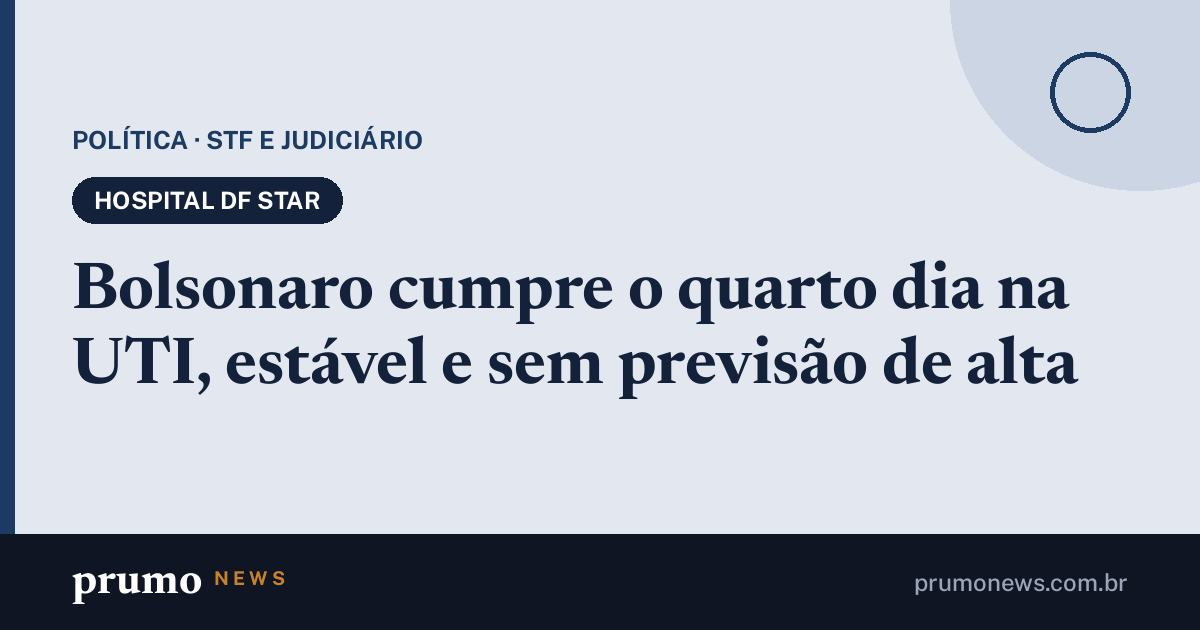
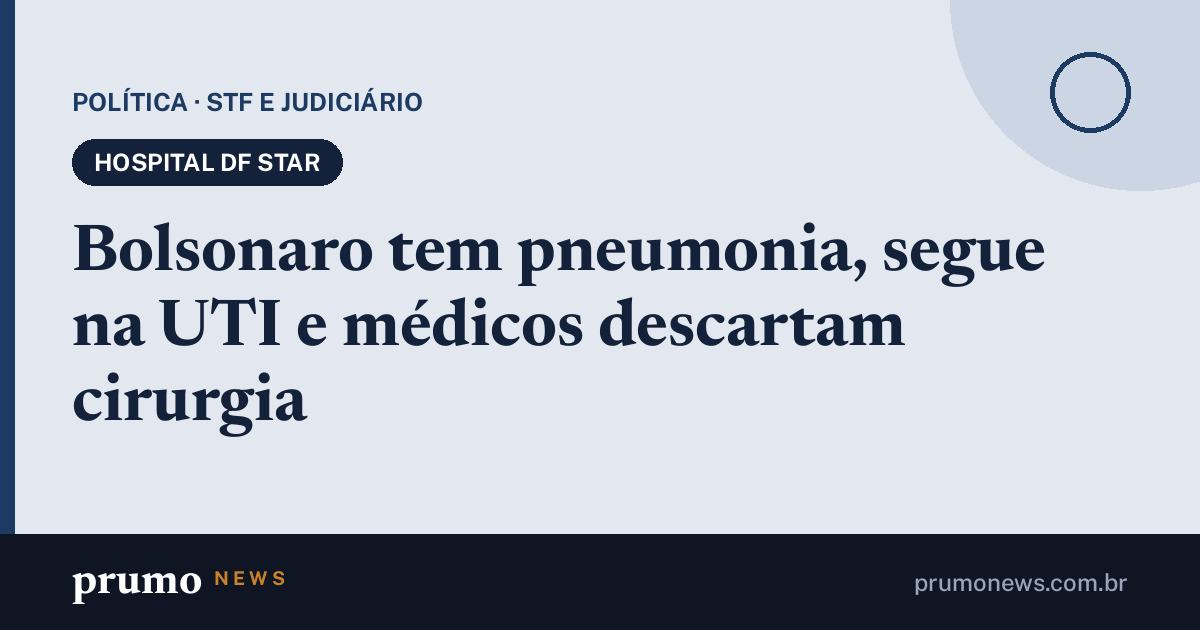
Páginas de compartilhamento 23/11 18h51

Changed region(s): [[0.0617, 0.1508, 0.8942, 0.6937]]

diff --git a/m/bolsonaro-hospital-dores-abdominais.html b/m/bolsonaro-hospital-dores-abdominais.html
@@ -3,16 +3,16 @@
 <head>
 <meta charset="utf-8">
 <meta name="viewport" content="width=device-width, initial-scale=1">
-<title>Bolsonaro cumpre o quarto dia na UTI, estável e sem previsão de alta · Prumo News</title>
-<meta name="description" content="Internado desde sexta (20) com abdômen agudo obstrutivo, o ex-presidente faz exames diários e a equipe médica o mantém em observação.">
-<link rel="canonical" href="https://prumonews.com.br/m/bolsonaro-cumpre-o-quarto-dia-na-uti-estavel-e-sem-previsao-de-alta.html">
+<title>Bolsonaro tem pneumonia, segue na UTI e médicos descartam cirurgia · Prumo News</title>
+<meta name="description" content="Internado desde sexta (20), o ex-presidente tem pneumonia e obstrução intestinal; a equipe relata melhora e descarta cirurgia por ora.">
+<link rel="canonical" href="https://prumonews.com.br/m/bolsonaro-tem-pneumonia-segue-na-uti-e-medicos-descartam-cirurgia.html">
 <meta property="og:type" content="article">
 <meta property="og:site_name" content="Prumo News">
 <meta property="og:locale" content="pt_BR">
-<meta property="og:title" content="Bolsonaro cumpre o quarto dia na UTI, estável e sem previsão de alta">
-<meta property="og:description" content="Internado desde sexta (20) com abdômen agudo obstrutivo, o ex-presidente faz exames diários e a equipe médica o mantém em observação.">
-<meta property="og:url" content="https://prumonews.com.br/m/bolsonaro-cumpre-o-quarto-dia-na-uti-estavel-e-sem-previsao-de-alta.html">
-<meta property="og:image" content="https://prumonews.com.br/m/og/bolsonaro-hospital-dores-abdominais.jpg?v=792edbce66">
+<meta property="og:title" content="Bolsonaro tem pneumonia, segue na UTI e médicos descartam cirurgia">
+<meta property="og:description" content="Internado desde sexta (20), o ex-presidente tem pneumonia e obstrução intestinal; a equipe relata melhora e descarta cirurgia por ora.">
+<meta property="og:url" content="https://prumonews.com.br/m/bolsonaro-tem-pneumonia-segue-na-uti-e-medicos-descartam-cirurgia.html">
+<meta property="og:image" content="https://prumonews.com.br/m/og/bolsonaro-hospital-dores-abdominais.jpg?v=f730641803">
 <meta property="og:image:width" content="1200">
 <meta property="og:image:height" content="630">
 <meta name="twitter:card" content="summary_large_image">
@@ -20,5 +20,5 @@
 <script>location.replace("/#m=bolsonaro-hospital-dores-abdominais")</script>
 <style>body{margin:0;font:16px/1.5 system-ui,sans-serif;background:#0f1522;color:#e8ecf2;display:grid;place-items:center;min-height:100vh;padding:24px;box-sizing:border-box;text-align:center}a{color:#e6b673}</style>
 </head>
-<body><p><a href="/#m=bolsonaro-hospital-dores-abdominais">Bolsonaro cumpre o quarto dia na UTI, estável e sem previsão de alta</a><br>Abrindo no Prumo News…</p></body>
+<body><p><a href="/#m=bolsonaro-hospital-dores-abdominais">Bolsonaro tem pneumonia, segue na UTI e médicos descartam cirurgia</a><br>Abrindo no Prumo News…</p></body>
 </html>

diff --git a/m/ajuste-fiscal-lula-4.html b/m/ajuste-fiscal-lula-4.html
@@ -3,22 +3,20 @@
 <head>
 <meta charset="utf-8">
 <meta name="viewport" content="width=device-width, initial-scale=1">
-<title>Câmara vota o ajuste fiscal na segunda (23); dólar sobe até R$ 6 · Prumo News</title>
-<meta name="description" content="O governo precisa de 257 votos à noite; o relator mantém o texto do Senado, e o dólar subiu até R$ 6 com o ajuste no foco.">
-<link rel="canonical" href="https://prumonews.com.br/m/camara-vota-o-ajuste-fiscal-na-segunda-23-dolar-sobe-ate-r-6.html">
+<title>PL vota contra o ajuste fiscal; Câmara decide na segunda (23) · Prumo News</title>
+<meta name="description" content="O governo precisa de 257 votos; o PL anunciou voto contra, o relator mantém o texto do Senado e o dólar fechou a R$ 5,93.">
+<link rel="canonical" href="https://prumonews.com.br/m/pl-vota-contra-o-ajuste-fiscal-camara-decide-na-segunda-23.html">
 <meta property="og:type" content="article">
 <meta property="og:site_name" content="Prumo News">
 <meta property="og:locale" content="pt_BR">
-<meta property="og:title" content="Câmara vota o ajuste fiscal na segunda (23); dólar sobe até R$ 6">
-<meta property="og:description" content="O governo precisa de 257 votos à noite; o relator mantém o texto do Senado, e o dólar subiu até R$ 6 com o ajuste no foco.">
-<meta property="og:url" content="https://prumonews.com.br/m/camara-vota-o-ajuste-fiscal-na-segunda-23-dolar-sobe-ate-r-6.html">
-<meta property="og:image" content="https://prumonews.com.br/m/og/ajuste-fiscal-lula-4.jpg?v=e12dc967e5">
-<meta property="og:image:width" content="1200">
-<meta property="og:image:height" content="630">
+<meta property="og:title" content="PL vota contra o ajuste fiscal; Câmara decide na segunda (23)">
+<meta property="og:description" content="O governo precisa de 257 votos; o PL anunciou voto contra, o relator mantém o texto do Senado e o dólar fechou a R$ 5,93.">
+<meta property="og:url" content="https://prumonews.com.br/m/pl-vota-contra-o-ajuste-fiscal-camara-decide-na-segunda-23.html">
+<meta property="og:image" content="https://upload.wikimedia.org/wikipedia/commons/thumb/3/3a/Plen%C3%A1rio_do_Senado_%2829281060086%29.jpg/960px-Plen%C3%A1rio_do_Senado_%2829281060086%29.jpg">
 <meta name="twitter:card" content="summary_large_image">
 <meta name="theme-color" content="#0f1522">
 <script>location.replace("/#m=ajuste-fiscal-lula-4")</script>
 <style>body{margin:0;font:16px/1.5 system-ui,sans-serif;background:#0f1522;color:#e8ecf2;display:grid;place-items:center;min-height:100vh;padding:24px;box-sizing:border-box;text-align:center}a{color:#e6b673}</style>
 </head>
-<body><p><a href="/#m=ajuste-fiscal-lula-4">Câmara vota o ajuste fiscal na segunda (23); dólar sobe até R$ 6</a><br>Abrindo no Prumo News…</p></body>
+<body><p><a href="/#m=ajuste-fiscal-lula-4">PL vota contra o ajuste fiscal; Câmara decide na segunda (23)</a><br>Abrindo no Prumo News…</p></body>
 </html>

diff --git a/m/decreto-6x1-adiado.html b/m/decreto-6x1-adiado.html
@@ -3,20 +3,20 @@
 <head>
 <meta charset="utf-8">
 <meta name="viewport" content="width=device-width, initial-scale=1">
-<title>Decreto assinado na quinta (19) garante 2 folgas em 16/12 · Prumo News</title>
-<meta name="description" content="Para quem ganha R$ 3.000, a hora sobe de R$ 13,64 para R$ 14,29; serviços essenciais terão oito folgas a cada 30 dias.">
-<link rel="canonical" href="https://prumonews.com.br/m/decreto-assinado-na-quinta-19-garante-2-folgas-em-16-12.html">
+<title>AGU pede ao STF que derrube liminar de Dino; portaria detalha a 6×1 · Prumo News</title>
+<meta name="description" content="A portaria trata de 12x36, domingos e horas extras; a liminar de Dino mantém 42 horas em 16/12.">
+<link rel="canonical" href="https://prumonews.com.br/m/agu-pede-ao-stf-que-derrube-liminar-de-dino-portaria-detalha-a-6x1.html">
 <meta property="og:type" content="article">
 <meta property="og:site_name" content="Prumo News">
 <meta property="og:locale" content="pt_BR">
-<meta property="og:title" content="Decreto assinado na quinta (19) garante 2 folgas em 16/12">
-<meta property="og:description" content="Para quem ganha R$ 3.000, a hora sobe de R$ 13,64 para R$ 14,29; serviços essenciais terão oito folgas a cada 30 dias.">
-<meta property="og:url" content="https://prumonews.com.br/m/decreto-assinado-na-quinta-19-garante-2-folgas-em-16-12.html">
-<meta property="og:image" content="https://upload.wikimedia.org/wikipedia/commons/thumb/4/4a/Fachada_do_Pal%C3%A1cio_do_Planalto_-_49728086097.jpg/960px-Fachada_do_Pal%C3%A1cio_do_Planalto_-_49728086097.jpg">
+<meta property="og:title" content="AGU pede ao STF que derrube liminar de Dino; portaria detalha a 6×1">
+<meta property="og:description" content="A portaria trata de 12x36, domingos e horas extras; a liminar de Dino mantém 42 horas em 16/12.">
+<meta property="og:url" content="https://prumonews.com.br/m/agu-pede-ao-stf-que-derrube-liminar-de-dino-portaria-detalha-a-6x1.html">
+<meta property="og:image" content="https://upload.wikimedia.org/wikipedia/commons/thumb/6/6d/Entrevistas_-_Senador_Fl%C3%A1vio_Dino_%28PSB-MA%29_%2853539757383%29.jpg/960px-Entrevistas_-_Senador_Fl%C3%A1vio_Dino_%28PSB-MA%29_%2853539757383%29.jpg">
 <meta name="twitter:card" content="summary_large_image">
 <meta name="theme-color" content="#0f1522">
 <script>location.replace("/#m=decreto-6x1-adiado")</script>
 <style>body{margin:0;font:16px/1.5 system-ui,sans-serif;background:#0f1522;color:#e8ecf2;display:grid;place-items:center;min-height:100vh;padding:24px;box-sizing:border-box;text-align:center}a{color:#e6b673}</style>
 </head>
-<body><p><a href="/#m=decreto-6x1-adiado">Decreto assinado na quinta (19) garante 2 folgas em 16/12</a><br>Abrindo no Prumo News…</p></body>
+<body><p><a href="/#m=decreto-6x1-adiado">AGU pede ao STF que derrube liminar de Dino; portaria detalha a 6×1</a><br>Abrindo no Prumo News…</p></body>
 </html>

diff --git a/m/dolar-volta-acima-5.html b/m/dolar-volta-acima-5.html
@@ -3,16 +3,16 @@
 <head>
 <meta charset="utf-8">
 <meta name="viewport" content="width=device-width, initial-scale=1">
-<title>Dólar sobe até R$ 6 na segunda (23); mercado vê R$ 5,55 no fim do ano · Prumo News</title>
-<meta name="description" content="O Ibovespa caiu e a Câmara vota o ajuste fiscal à noite; o último fechamento do dólar foi a R$ 5,93 na quinta (19).">
-<link rel="canonical" href="https://prumonews.com.br/m/dolar-sobe-ate-r-6-na-segunda-23-mercado-ve-r-5-55-no-fim-do-ano.html">
+<title>Dólar toca R$ 6 e fecha a R$ 5,93; Ibovespa cai a 164.796 · Prumo News</title>
+<meta name="description" content="O dólar encostou em R$ 6 durante o dia, com o ajuste fiscal no foco na Câmara, e recuou no fechamento.">
+<link rel="canonical" href="https://prumonews.com.br/m/dolar-toca-r-6-e-fecha-a-ibovespa-cai-a.html">
 <meta property="og:type" content="article">
 <meta property="og:site_name" content="Prumo News">
 <meta property="og:locale" content="pt_BR">
-<meta property="og:title" content="Dólar sobe até R$ 6 na segunda (23); mercado vê R$ 5,55 no fim do ano">
-<meta property="og:description" content="O Ibovespa caiu e a Câmara vota o ajuste fiscal à noite; o último fechamento do dólar foi a R$ 5,93 na quinta (19).">
-<meta property="og:url" content="https://prumonews.com.br/m/dolar-sobe-ate-r-6-na-segunda-23-mercado-ve-r-5-55-no-fim-do-ano.html">
-<meta property="og:image" content="https://prumonews.com.br/m/og/dolar-volta-acima-5.jpg?v=aaaf195161">
+<meta property="og:title" content="Dólar toca R$ 6 e fecha a R$ 5,93; Ibovespa cai a 164.796">
+<meta property="og:description" content="O dólar encostou em R$ 6 durante o dia, com o ajuste fiscal no foco na Câmara, e recuou no fechamento.">
+<meta property="og:url" content="https://prumonews.com.br/m/dolar-toca-r-6-e-fecha-a-ibovespa-cai-a.html">
+<meta property="og:image" content="https://prumonews.com.br/m/og/dolar-volta-acima-5.jpg?v=13f6fce8c2">
 <meta property="og:image:width" content="1200">
 <meta property="og:image:height" content="630">
 <meta name="twitter:card" content="summary_large_image">
@@ -20,5 +20,5 @@
 <script>location.replace("/#m=dolar-volta-acima-5")</script>
 <style>body{margin:0;font:16px/1.5 system-ui,sans-serif;background:#0f1522;color:#e8ecf2;display:grid;place-items:center;min-height:100vh;padding:24px;box-sizing:border-box;text-align:center}a{color:#e6b673}</style>
 </head>
-<body><p><a href="/#m=dolar-volta-acima-5">Dólar sobe até R$ 6 na segunda (23); mercado vê R$ 5,55 no fim do ano</a><br>Abrindo no Prumo News…</p></body>
+<body><p><a href="/#m=dolar-volta-acima-5">Dólar toca R$ 6 e fecha a R$ 5,93; Ibovespa cai a 164.796</a><br>Abrindo no Prumo News…</p></body>
 </html>

diff --git a/m/bolsonaro-tem-pneumonia-segue-na-uti-e-medicos-descartam-cirurgia.html b/m/bolsonaro-tem-pneumonia-segue-na-uti-e-medicos-descartam-cirurgia.html
@@ -1,0 +1,24 @@
+<!doctype html>
+<html lang="pt-BR">
+<head>
+<meta charset="utf-8">
+<meta name="viewport" content="width=device-width, initial-scale=1">
+<title>Bolsonaro tem pneumonia, segue na UTI e médicos descartam cirurgia · Prumo News</title>
+<meta name="description" content="Internado desde sexta (20), o ex-presidente tem pneumonia e obstrução intestinal; a equipe relata melhora e descarta cirurgia por ora.">
+<link rel="canonical" href="https://prumonews.com.br/m/bolsonaro-tem-pneumonia-segue-na-uti-e-medicos-descartam-cirurgia.html">
+<meta property="og:type" content="article">
+<meta property="og:site_name" content="Prumo News">
+<meta property="og:locale" content="pt_BR">
+<meta property="og:title" content="Bolsonaro tem pneumonia, segue na UTI e médicos descartam cirurgia">
+<meta property="og:description" content="Internado desde sexta (20), o ex-presidente tem pneumonia e obstrução intestinal; a equipe relata melhora e descarta cirurgia por ora.">
+<meta property="og:url" content="https://prumonews.com.br/m/bolsonaro-tem-pneumonia-segue-na-uti-e-medicos-descartam-cirurgia.html">
+<meta property="og:image" content="https://prumonews.com.br/m/og/bolsonaro-hospital-dores-abdominais.jpg?v=f730641803">
+<meta property="og:image:width" content="1200">
+<meta property="og:image:height" content="630">
+<meta name="twitter:card" content="summary_large_image">
+<meta name="theme-color" content="#0f1522">
+<script>location.replace("/#m=bolsonaro-hospital-dores-abdominais")</script>
+<style>body{margin:0;font:16px/1.5 system-ui,sans-serif;background:#0f1522;color:#e8ecf2;display:grid;place-items:center;min-height:100vh;padding:24px;box-sizing:border-box;text-align:center}a{color:#e6b673}</style>
+</head>
+<body><p><a href="/#m=bolsonaro-hospital-dores-abdominais">Bolsonaro tem pneumonia, segue na UTI e médicos descartam cirurgia</a><br>Abrindo no Prumo News…</p></body>
+</html>

diff --git a/m/agu-pede-ao-stf-que-derrube-liminar-de-dino-portaria-detalha-a-6x1.html b/m/agu-pede-ao-stf-que-derrube-liminar-de-dino-portaria-detalha-a-6x1.html
@@ -1,0 +1,22 @@
+<!doctype html>
+<html lang="pt-BR">
+<head>
+<meta charset="utf-8">
+<meta name="viewport" content="width=device-width, initial-scale=1">
+<title>AGU pede ao STF que derrube liminar de Dino; portaria detalha a 6×1 · Prumo News</title>
+<meta name="description" content="A portaria trata de 12x36, domingos e horas extras; a liminar de Dino mantém 42 horas em 16/12.">
+<link rel="canonical" href="https://prumonews.com.br/m/agu-pede-ao-stf-que-derrube-liminar-de-dino-portaria-detalha-a-6x1.html">
+<meta property="og:type" content="article">
+<meta property="og:site_name" content="Prumo News">
+<meta property="og:locale" content="pt_BR">
+<meta property="og:title" content="AGU pede ao STF que derrube liminar de Dino; portaria detalha a 6×1">
+<meta property="og:description" content="A portaria trata de 12x36, domingos e horas extras; a liminar de Dino mantém 42 horas em 16/12.">
+<meta property="og:url" content="https://prumonews.com.br/m/agu-pede-ao-stf-que-derrube-liminar-de-dino-portaria-detalha-a-6x1.html">
+<meta property="og:image" content="https://upload.wikimedia.org/wikipedia/commons/thumb/6/6d/Entrevistas_-_Senador_Fl%C3%A1vio_Dino_%28PSB-MA%29_%2853539757383%29.jpg/960px-Entrevistas_-_Senador_Fl%C3%A1vio_Dino_%28PSB-MA%29_%2853539757383%29.jpg">
+<meta name="twitter:card" content="summary_large_image">
+<meta name="theme-color" content="#0f1522">
+<script>location.replace("/#m=decreto-6x1-adiado")</script>
+<style>body{margin:0;font:16px/1.5 system-ui,sans-serif;background:#0f1522;color:#e8ecf2;display:grid;place-items:center;min-height:100vh;padding:24px;box-sizing:border-box;text-align:center}a{color:#e6b673}</style>
+</head>
+<body><p><a href="/#m=decreto-6x1-adiado">AGU pede ao STF que derrube liminar de Dino; portaria detalha a 6×1</a><br>Abrindo no Prumo News…</p></body>
+</html>

diff --git a/m/pgr-pede-ao-stf-que-encerre-acao-do-psd-por-2-turno-no-rio.html b/m/pgr-pede-ao-stf-que-encerre-acao-do-psd-por-2-turno-no-rio.html
@@ -1,0 +1,22 @@
+<!doctype html>
+<html lang="pt-BR">
+<head>
+<meta charset="utf-8">
+<meta name="viewport" content="width=device-width, initial-scale=1">
+<title>PGR pede ao STF que encerre ação do PSD por 2º turno no Rio · Prumo News</title>
+<meta name="description" content="Para a PGR, a disputa sobre os votos de Garotinho deve ficar no TSE; a ação do PSD aguarda julgamento do STF.">
+<link rel="canonical" href="https://prumonews.com.br/m/pgr-pede-ao-stf-que-encerre-acao-do-psd-por-2-turno-no-rio.html">
+<meta property="og:type" content="article">
+<meta property="og:site_name" content="Prumo News">
+<meta property="og:locale" content="pt_BR">
+<meta property="og:title" content="PGR pede ao STF que encerre ação do PSD por 2º turno no Rio">
+<meta property="og:description" content="Para a PGR, a disputa sobre os votos de Garotinho deve ficar no TSE; a ação do PSD aguarda julgamento do STF.">
+<meta property="og:url" content="https://prumonews.com.br/m/pgr-pede-ao-stf-que-encerre-acao-do-psd-por-2-turno-no-rio.html">
+<meta property="og:image" content="https://upload.wikimedia.org/wikipedia/commons/thumb/0/07/Supremo_Tribunal_Federal_por_Henrique_Goldenstein_%2801%29.jpg/960px-Supremo_Tribunal_Federal_por_Henrique_Goldenstein_%2801%29.jpg">
+<meta name="twitter:card" content="summary_large_image">
+<meta name="theme-color" content="#0f1522">
+<script>location.replace("/#m=pgr-psd-segundo-turno-rj")</script>
+<style>body{margin:0;font:16px/1.5 system-ui,sans-serif;background:#0f1522;color:#e8ecf2;display:grid;place-items:center;min-height:100vh;padding:24px;box-sizing:border-box;text-align:center}a{color:#e6b673}</style>
+</head>
+<body><p><a href="/#m=pgr-psd-segundo-turno-rj">PGR pede ao STF que encerre ação do PSD por 2º turno no Rio</a><br>Abrindo no Prumo News…</p></body>
+</html>

diff --git a/m/pgr-psd-segundo-turno-rj.html b/m/pgr-psd-segundo-turno-rj.html
@@ -1,0 +1,22 @@
+<!doctype html>
+<html lang="pt-BR">
+<head>
+<meta charset="utf-8">
+<meta name="viewport" content="width=device-width, initial-scale=1">
+<title>PGR pede ao STF que encerre ação do PSD por 2º turno no Rio · Prumo News</title>
+<meta name="description" content="Para a PGR, a disputa sobre os votos de Garotinho deve ficar no TSE; a ação do PSD aguarda julgamento do STF.">
+<link rel="canonical" href="https://prumonews.com.br/m/pgr-pede-ao-stf-que-encerre-acao-do-psd-por-2-turno-no-rio.html">
+<meta property="og:type" content="article">
+<meta property="og:site_name" content="Prumo News">
+<meta property="og:locale" content="pt_BR">
+<meta property="og:title" content="PGR pede ao STF que encerre ação do PSD por 2º turno no Rio">
+<meta property="og:description" content="Para a PGR, a disputa sobre os votos de Garotinho deve ficar no TSE; a ação do PSD aguarda julgamento do STF.">
+<meta property="og:url" content="https://prumonews.com.br/m/pgr-pede-ao-stf-que-encerre-acao-do-psd-por-2-turno-no-rio.html">
+<meta property="og:image" content="https://upload.wikimedia.org/wikipedia/commons/thumb/0/07/Supremo_Tribunal_Federal_por_Henrique_Goldenstein_%2801%29.jpg/960px-Supremo_Tribunal_Federal_por_Henrique_Goldenstein_%2801%29.jpg">
+<meta name="twitter:card" content="summary_large_image">
+<meta name="theme-color" content="#0f1522">
+<script>location.replace("/#m=pgr-psd-segundo-turno-rj")</script>
+<style>body{margin:0;font:16px/1.5 system-ui,sans-serif;background:#0f1522;color:#e8ecf2;display:grid;place-items:center;min-height:100vh;padding:24px;box-sizing:border-box;text-align:center}a{color:#e6b673}</style>
+</head>
+<body><p><a href="/#m=pgr-psd-segundo-turno-rj">PGR pede ao STF que encerre ação do PSD por 2º turno no Rio</a><br>Abrindo no Prumo News…</p></body>
+</html>

diff --git a/m/pl-vota-contra-o-ajuste-fiscal-camara-decide-na-segunda-23.html b/m/pl-vota-contra-o-ajuste-fiscal-camara-decide-na-segunda-23.html
@@ -1,0 +1,22 @@
+<!doctype html>
+<html lang="pt-BR">
+<head>
+<meta charset="utf-8">
+<meta name="viewport" content="width=device-width, initial-scale=1">
+<title>PL vota contra o ajuste fiscal; Câmara decide na segunda (23) · Prumo News</title>
+<meta name="description" content="O governo precisa de 257 votos; o PL anunciou voto contra, o relator mantém o texto do Senado e o dólar fechou a R$ 5,93.">
+<link rel="canonical" href="https://prumonews.com.br/m/pl-vota-contra-o-ajuste-fiscal-camara-decide-na-segunda-23.html">
+<meta property="og:type" content="article">
+<meta property="og:site_name" content="Prumo News">
+<meta property="og:locale" content="pt_BR">
+<meta property="og:title" content="PL vota contra o ajuste fiscal; Câmara decide na segunda (23)">
+<meta property="og:description" content="O governo precisa de 257 votos; o PL anunciou voto contra, o relator mantém o texto do Senado e o dólar fechou a R$ 5,93.">
+<meta property="og:url" content="https://prumonews.com.br/m/pl-vota-contra-o-ajuste-fiscal-camara-decide-na-segunda-23.html">
+<meta property="og:image" content="https://upload.wikimedia.org/wikipedia/commons/thumb/3/3a/Plen%C3%A1rio_do_Senado_%2829281060086%29.jpg/960px-Plen%C3%A1rio_do_Senado_%2829281060086%29.jpg">
+<meta name="twitter:card" content="summary_large_image">
+<meta name="theme-color" content="#0f1522">
+<script>location.replace("/#m=ajuste-fiscal-lula-4")</script>
+<style>body{margin:0;font:16px/1.5 system-ui,sans-serif;background:#0f1522;color:#e8ecf2;display:grid;place-items:center;min-height:100vh;padding:24px;box-sizing:border-box;text-align:center}a{color:#e6b673}</style>
+</head>
+<body><p><a href="/#m=ajuste-fiscal-lula-4">PL vota contra o ajuste fiscal; Câmara decide na segunda (23)</a><br>Abrindo no Prumo News…</p></body>
+</html>

diff --git a/m/dolar-toca-r-6-e-fecha-a-ibovespa-cai-a.html b/m/dolar-toca-r-6-e-fecha-a-ibovespa-cai-a.html
@@ -1,0 +1,24 @@
+<!doctype html>
+<html lang="pt-BR">
+<head>
+<meta charset="utf-8">
+<meta name="viewport" content="width=device-width, initial-scale=1">
+<title>Dólar toca R$ 6 e fecha a R$ 5,93; Ibovespa cai a 164.796 · Prumo News</title>
+<meta name="description" content="O dólar encostou em R$ 6 durante o dia, com o ajuste fiscal no foco na Câmara, e recuou no fechamento.">
+<link rel="canonical" href="https://prumonews.com.br/m/dolar-toca-r-6-e-fecha-a-ibovespa-cai-a.html">
+<meta property="og:type" content="article">
+<meta property="og:site_name" content="Prumo News">
+<meta property="og:locale" content="pt_BR">
+<meta property="og:title" content="Dólar toca R$ 6 e fecha a R$ 5,93; Ibovespa cai a 164.796">
+<meta property="og:description" content="O dólar encostou em R$ 6 durante o dia, com o ajuste fiscal no foco na Câmara, e recuou no fechamento.">
+<meta property="og:url" content="https://prumonews.com.br/m/dolar-toca-r-6-e-fecha-a-ibovespa-cai-a.html">
+<meta property="og:image" content="https://prumonews.com.br/m/og/dolar-volta-acima-5.jpg?v=13f6fce8c2">
+<meta property="og:image:width" content="1200">
+<meta property="og:image:height" content="630">
+<meta name="twitter:card" content="summary_large_image">
+<meta name="theme-color" content="#0f1522">
+<script>location.replace("/#m=dolar-volta-acima-5")</script>
+<style>body{margin:0;font:16px/1.5 system-ui,sans-serif;background:#0f1522;color:#e8ecf2;display:grid;place-items:center;min-height:100vh;padding:24px;box-sizing:border-box;text-align:center}a{color:#e6b673}</style>
+</head>
+<body><p><a href="/#m=dolar-volta-acima-5">Dólar toca R$ 6 e fecha a R$ 5,93; Ibovespa cai a 164.796</a><br>Abrindo no Prumo News…</p></body>
+</html>
